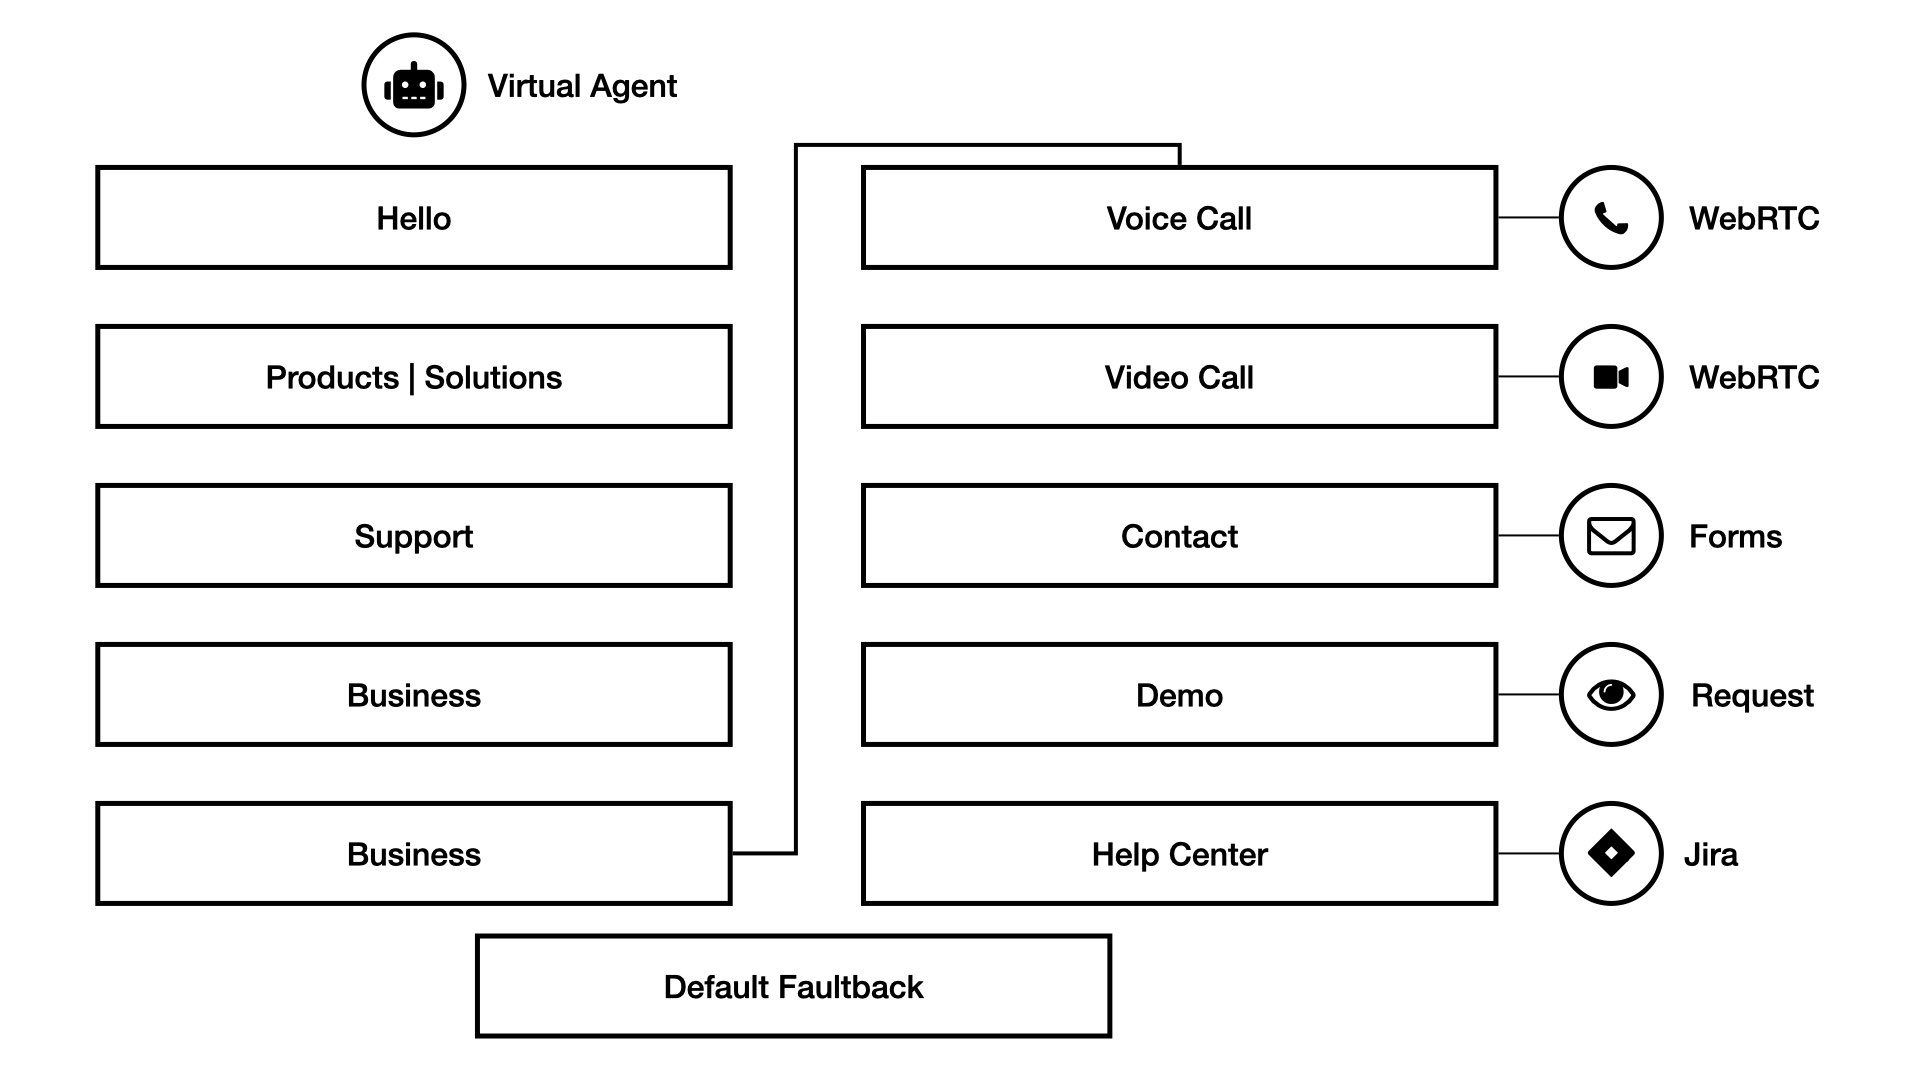
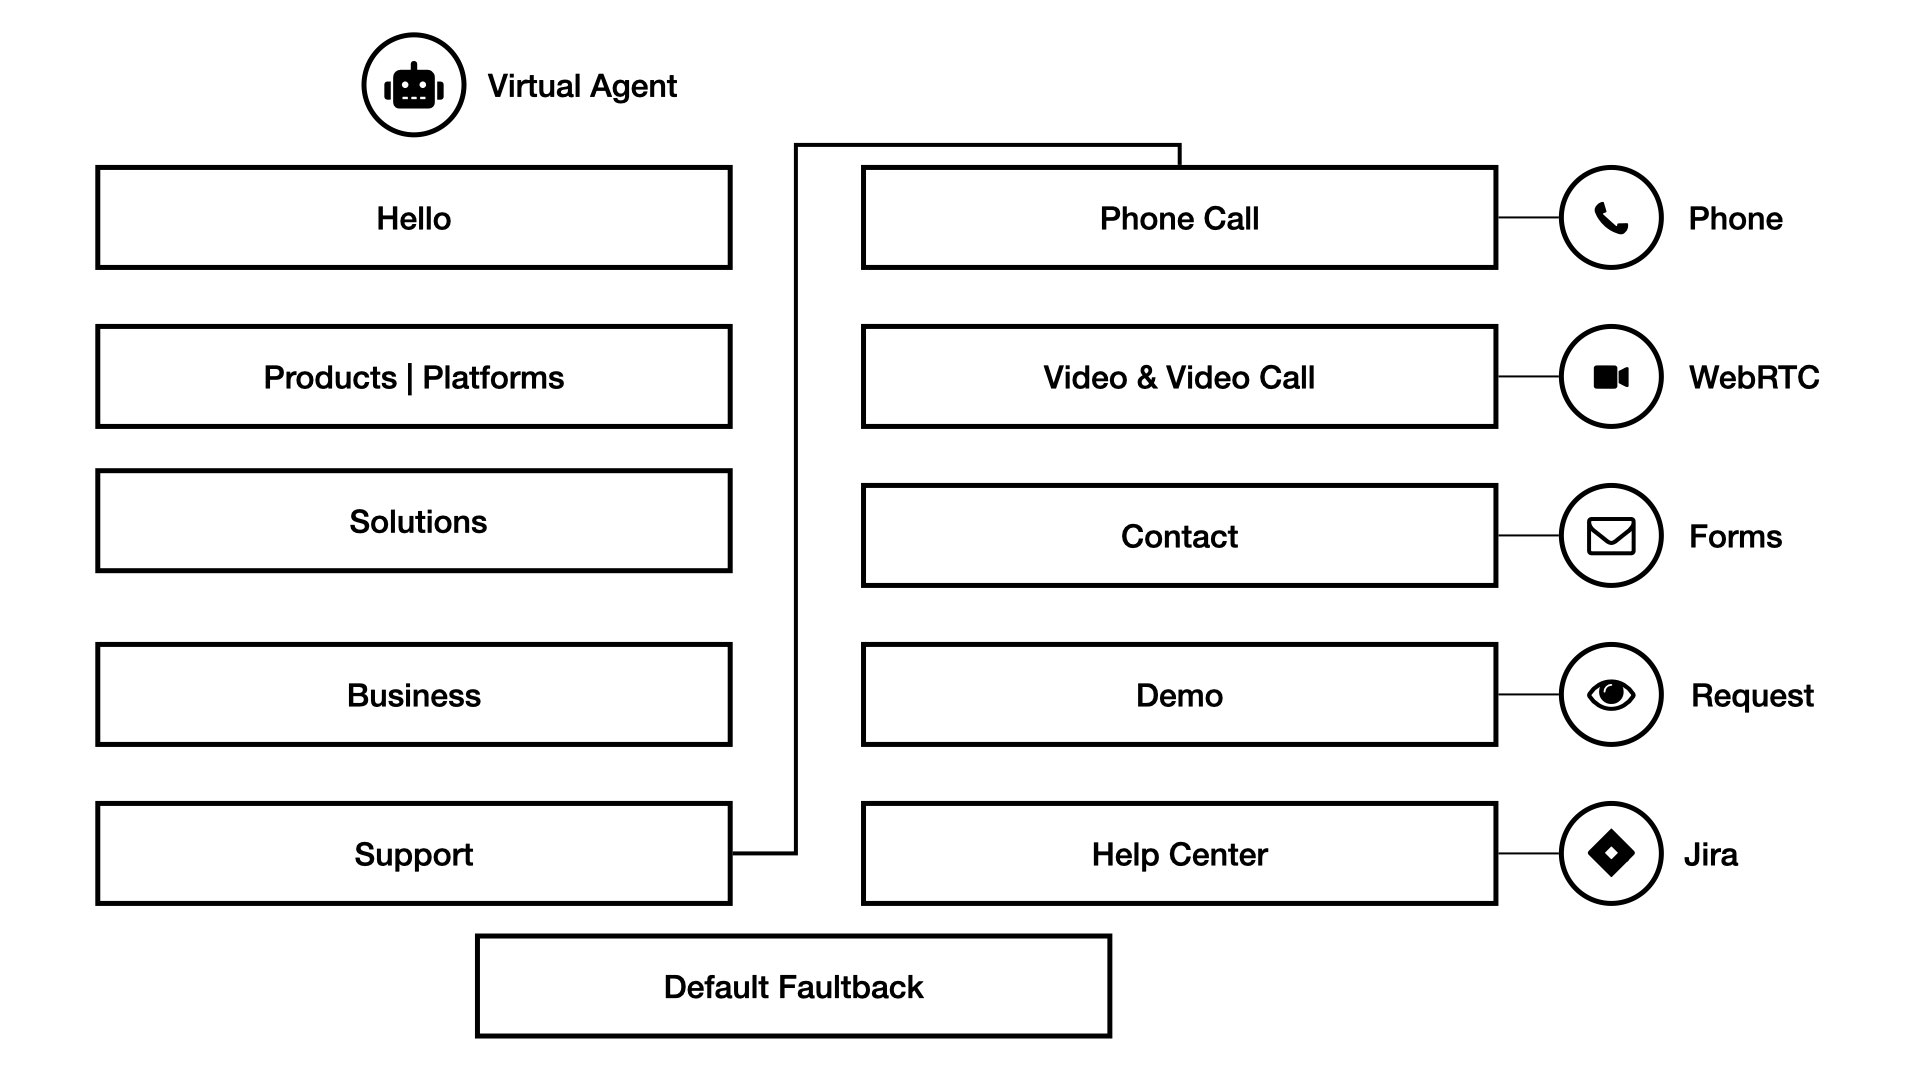
New Publish [13/01/2021 01:09]

diff --git a/post/general/empowered-chatbot/index.html b/post/general/empowered-chatbot/index.html
@@ -102,7 +102,7 @@
         },
         "datePublished": "2021-01-12",
         "dateModified": "2021-01-12",
-        "wordCount": 239,
+        "wordCount": 237,
         "keywords": ["ivrpowers","chatbot","voicebot"] 
     }
     </script>
@@ -175,7 +175,7 @@ html{font-family:sans-serif;line-height:1.15;-ms-text-size-adjust:100%;-webkit-t
 
   			<header class="post-header">
   				<span class="post-meta">
-						<span class="post-date">12 Jan 2021</span> <span class="reading-time">| <span class="estimated-reading-time">2 min.</span> (<span class="word-count">239</span> words)</span></span>
+						<span class="post-date">12 Jan 2021</span> <span class="reading-time">| <span class="estimated-reading-time">2 min.</span> (<span class="word-count">237</span> words)</span></span>
   				</span>
   				<div class="clear"></div>
   				<h1 class="post-title">Empowered Chatbot!</h1>
@@ -225,9 +225,10 @@ html{font-family:sans-serif;line-height:1.15;-ms-text-size-adjust:100%;-webkit-t
 
 <ul>
 <li>Welcome!</li>
-<li>Products | Solutions</li>
-<li>Business | Industries</li>
-<li>Support requests</li>
+<li>Products | Platforms</li>
+<li>Solutions</li>
+<li>Business</li>
+<li>Support</li>
 </ul>
 
 <h3 id="smart-ivr-integration-voicebot">◾ Smart IVR Integration (Voicebot)</h3>
